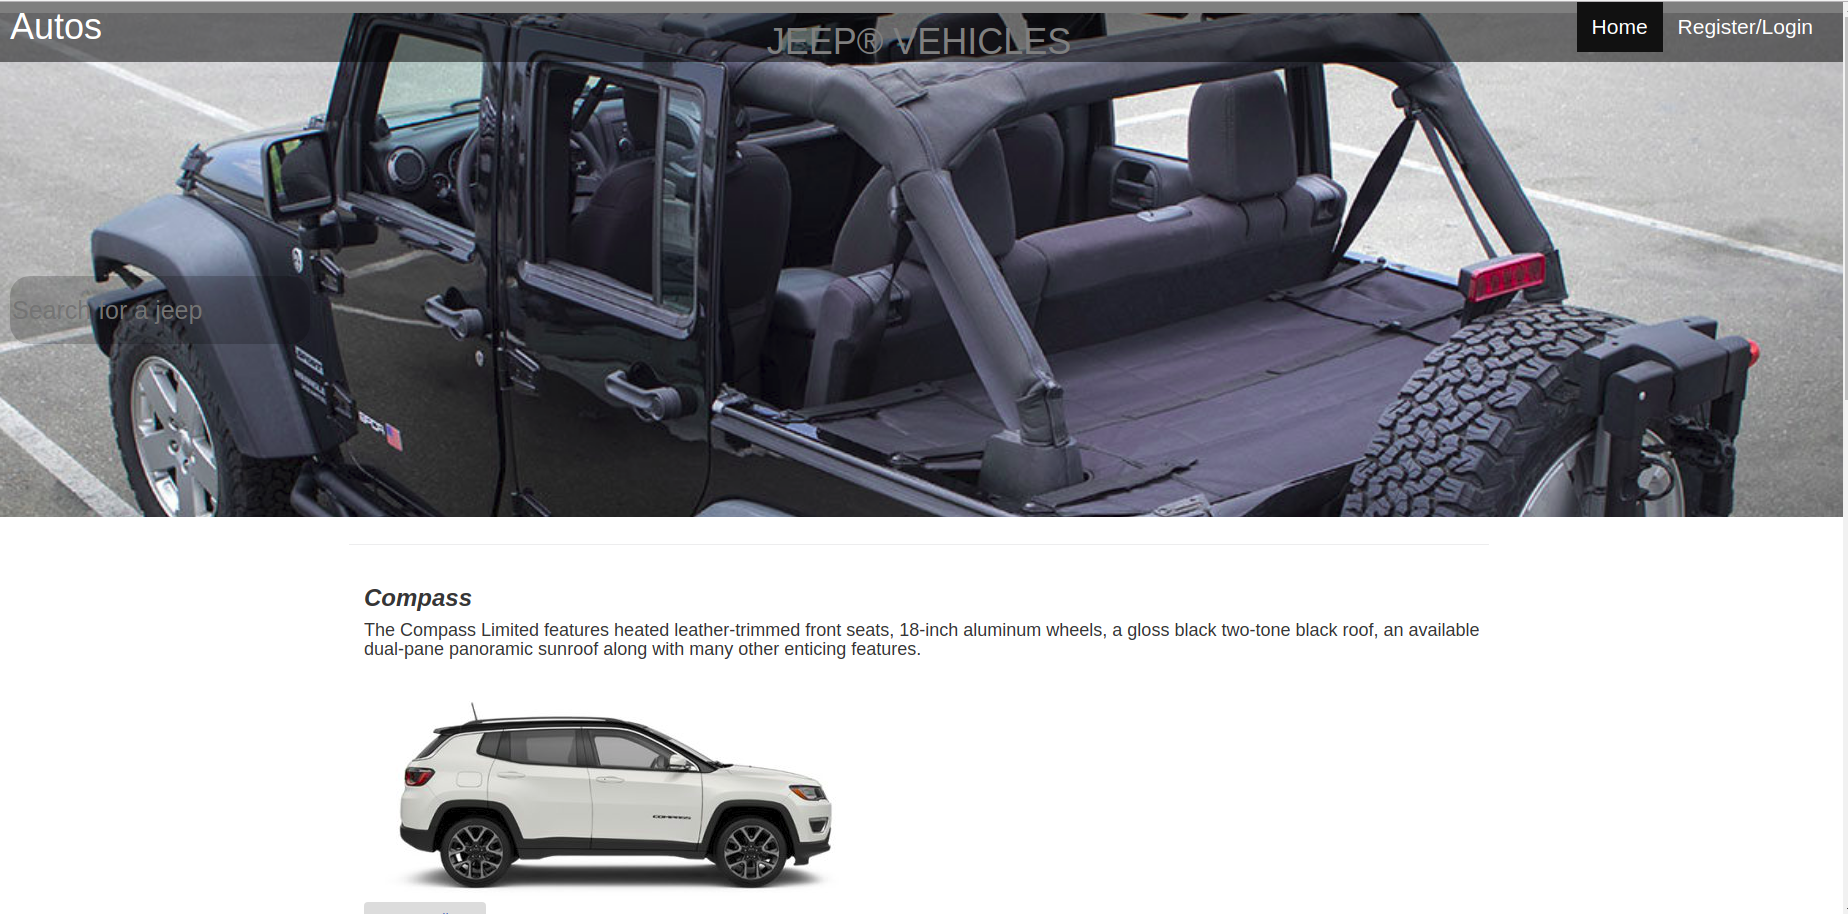
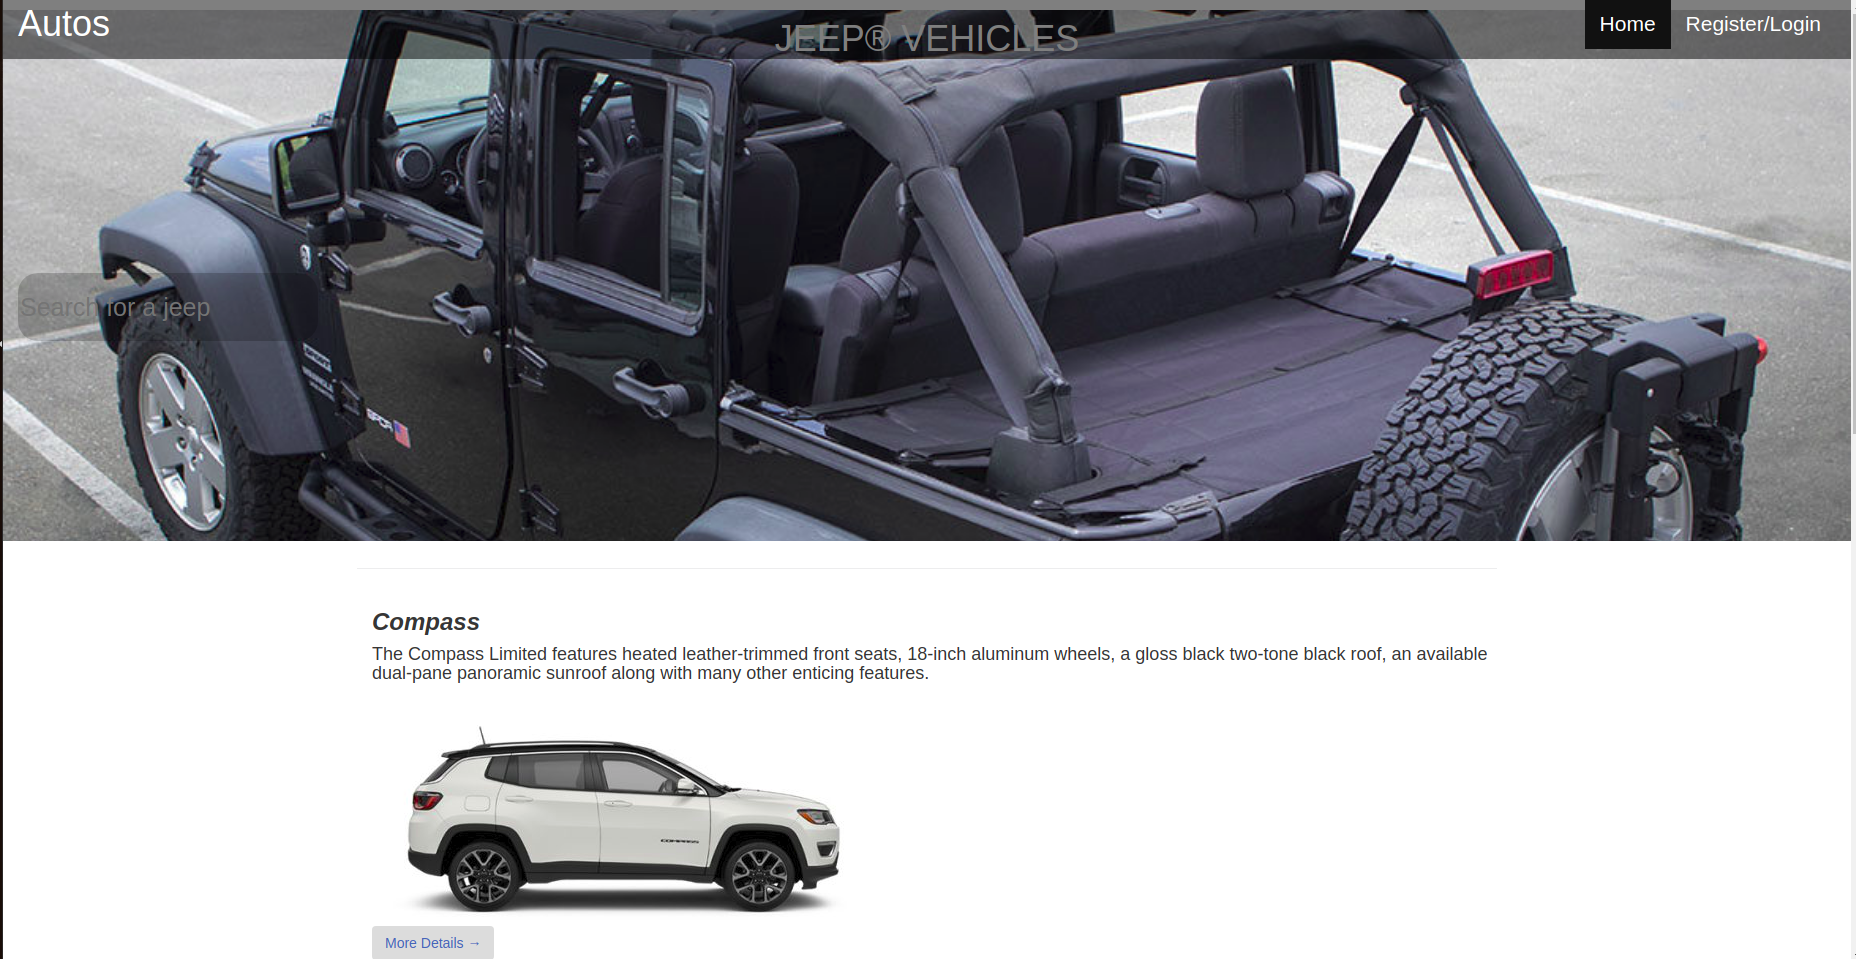
fix bug

diff --git a/index.html b/index.html
@@ -127,6 +127,7 @@
       </div>
     </div>
     </div>
+
     <!-- Portfolio Section -->
     <div id="portfolio">
       <div class="container">
@@ -134,83 +135,103 @@
           <h2>Projects</h2>
           <hr>
         </div>
-        <div class="categories">
-          <ul class="cat">
-            <li>
-              <ol class="type">
-                <li><a href="#" data-filter="*" class="active">All</a></li>
-                <li><a href="#" data-filter=".web">Javascript</a></li>
-                <li><a href="#" data-filter=".branding">Python - Django</a></li>
-              </ol>
-            </li>
-          </ul>
-          <div class="clearfix"></div>
+
+        <!-- Button trigger modal -->
+        <button type="button" class="btn btn-primary btn-lg" data-toggle="modal" data-target="#exampleModal">
+          <img src="img/projects/traft.png" class="img-responsive" alt="Traffic Tracker" height="250" width="250">
+          <h4>Traffic Tracker</h4>
+          </button>
+
+        <!-- Modal -->
+        <div class="modal fade" id="exampleModal" tabindex="-5" role="dialog" aria-labelledby="exampleModalLabel" aria-hidden="true" height="90px" width="650px">
+          <div class="modal-dialog" role="document">
+            <div class="modal-content">
+              <div class="modal-header"> <br>
+                <h5 class="modal-title" id="exampleModalLabel">Traffic Tracker</h5>
+                <button type="button" class="close" data-dismiss="modal" aria-label="Close">
+                    <span aria-hidden="true">&times;</span>
+                  </button>
+              </div> <br>
+              <div class="modal-body">
+                <img src="img/portfolio/tt-desc2.png" title="Technologies used: Ember, Firebase, GoogleMap, Twitter API" rel="prettyPhoto" height="490" width="540px">
+                <h3>This is a simple Web application that allows users to track traffic on specified routes.</h3>
+                <h2><a href="https://traffic-tracker-70c62.firebaseapp.com/">View Site</a></h2>
+              </div>
+              <div class=" modal-footer ">
+                <p>Technologies used: Ember, Firebase, GoogleMap, Twitter API</p>
+              </div>
+            </div>
+          </div>
         </div>
-        <div class="row">
-          <div class="portfolio-items">
-            <div class="col-sm-6 col-md-3 col-lg-3 web">
-              <div class="portfolio-item">
-                <div class="hover-bg">
-                  <h4>
-                      <a href="img/portfolio/01-large.jpg" title="Technologies used: Ember, Firebase, GoogleMap, Twitter API" rel="prettyPhoto">
-                      </h4>
-                  <div class="hover-text">
-                    <h4>Traffic Tracker</h4>
-                    <small>This is a simple Web application that allows users to track traffic on specified routes.</small> </div>
-                  <img src="img/projects/traft.png" class="img-responsive" alt="Traffic Tracker"> </a>
-                </div><a href="https://traffic-tracker-70c62.firebaseapp.com/">View Site</a>
+        <!-- Project 2 -->
+        <button type="button" class="btn btn-primary btn-lg" data-toggle="modal" data-target="#exampleModal1">
+          <img src="img/projects/camera.png" class="img-responsive" alt="Traffic Tracker" height="250" width="250">
+          <h4>Unsplash-Clone</h4>
+          </button>
+
+        <!-- Modal -->
+        <div class="modal fade" id="exampleModal1" tabindex="-5" role="dialog" aria-labelledby="exampleModalLabel" aria-hidden="true" height="90px" width="650px">
+          <div class="modal-dialog" role="document">
+            <div class="modal-content">
+              <div class="modal-header"> <br>
+                <h5 class="modal-title" id="exampleModalLabel">Unsplash-Clone</h5>
+                <button type="button" class="close" data-dismiss="modal" aria-label="Close">
+                    <span aria-hidden="true">&times;</span>
+                  </button>
+              </div> <br>
+              <div class="modal-body">
+                <img src="img/projects/unsplash.png" title="Technologies used: Ember, Firebase, GoogleMap, Twitter API" rel="prettyPhoto" height="490" width="540px">
+                <h3>This is a cloned web application for unsplash where users can upload photos and download photos from other users.</h3>
+                <h2><a href="https://unsplash-clone2.herokuapp.com/">View Site</a></h2>
+              </div>
+              <div class=" modal-footer ">
+                <p>Technologies used: Ember, Firebase, GoogleMap, Twitter API</p>
               </div>
             </div>
-            <div class="col-sm-6 col-md-3 col-lg-3 branding">
-              <div class="portfolio-item">
-                <div class="hover-bg">
-                  <a href="img/projects/unsplashclone.png" title="Technologies used: Python3.6, Django, Bootstrap, Postgresql Database, CSS, HTML" rel="prettyPhoto">
-                    <div class="hover-text">
-                      <h4>Unsplash-Clone</h4>
-                      <small>This is a cloned web application for unsplash where users can upload and download photos from other users.</small> </div>
-                    <img src="img/projects/camera.png" class="img-responsive" alt="Unsplash-Clone"> </a>
-                </div><a href="https://unsplash-clone2.herokuapp.com/">View Site</a>
+          </div>
+        </div>
+        <!-- Project 3 -->
+        <button type="button" class="btn btn-primary btn-lg" data-toggle="modal" data-target="#exampleModal2">
+          <img src="img/projects/jeep.png" class="img-responsive" alt="Traffic Tracker" height="250" width="250">
+          <h4>Autos</h4>
+          </button>
+
+        <!-- Modal -->
+        <div class="modal fade" id="exampleModal2" tabindex="-5" role="dialog" aria-labelledby="exampleModalLabel" aria-hidden="true" height="90px" width="650px">
+          <div class="modal-dialog" role="document">
+            <div class="modal-content">
+              <div class="modal-header"> <br>
+                <h5 class="modal-title" id="exampleModalLabel">Autos</h5>
+                <button type="button" class="close" data-dismiss="modal" aria-label="Close">
+                    <span aria-hidden="true">&times;</span>
+                  </button>
+              </div> <br>
+              <div class="modal-body">
+                <img src="img/projects/autos.png" title="Technologies used: Ember, Firebase, GoogleMap, Twitter API" rel="prettyPhoto" height="490" width="540px">
+                <h3>This application helps users to view more details about cars and be able to rate them.</h3>
+                <h2><a href="https://mweru-autos.herokuapp.com/">View Site</a></h2>
               </div>
-            </div>
-            <div class="col-sm-6 col-md-3 col-lg-3 web">
-              <div class="portfolio-item">
-                <div class="hover-bg">
-                  <a href="img/projects/githubuserlookup.png" title="Technologies used: HTML, CSS, Bootstrap, JavaScript, JQuery, GitHub API" rel="prettyPhoto">
-                    <div class="hover-text">
-                      <h4>Github User Lookup</h4>
-                      <small>A simple JavaScript application for searching users on Github using their usernames</small> </div>
-                    <img src="img/projects/github.png" class="img-responsive" alt="Github User Lookup"> </a>
-                </div>
-                <a href="https://mwerumuchai.github.io/mc5-ip1/">View Site</a>
-              </div>
-            </div>
-            <div class="col-sm-6 col-md-3 col-lg-3 branding">
-              <div class="portfolio-item">
-                <div class="hover-bg">
-                  <a href="img/projects/autos.png" title="Technologies used: Python3.6, Django, Bootstrap, Postgresql Database, CSS, HTML" rel="prettyPhoto">
-                    <div class="hover-text">
-                      <h4>Autos</h4>
-                      <small>This application helps users to view more details about cars and be able to rate them.</small> </div>
-                    <img src="img/projects/jeep.png" class="img-responsive" alt="Autos"> </a>
-                </div>
-                <a href="https://news-highlights.herokuapp.com/">View Site</a>
+              <div class=" modal-footer">
+                <p>Technologies used: Ember, Firebase, GoogleMap, Twitter API</p>
               </div>
             </div>
           </div>
         </div>
       </div>
     </div>
+
+
     <!-- Contact Section -->
     <div id="contact" class="text-center">
-      <div class="container-fluid">
-        <div class="row">
+      <div class="container-fluid ">
+        <div class="row ">
           <h2>Contact</h2>
-          <i class="fa fa-map-marker fa-2x"></i>
-          <p><i class="fa fa-envelope-o fa-2x"></i><a href="mailto:mwerumuchai@gmail.com" target="_top">mwerumuchai@gmail.com</a></p>
-          <div class="social">
+          <i class="fa fa-map-marker fa-2x "></i>
+          <p><i class="fa fa-envelope-o fa-2x "></i><a href="mailto:mwerumuchai@gmail.com" target="_top">mwerumuchai@gmail.com</a></p>
+          <div class="social ">
             <ul>
-              <li><a href="https://github.com/mwerumuchai"><i class="fa fa-github"></i></a></li>
-              <li><a href="https://www.linkedin.com/in/esther-mweru-913a4838/"><i class="fa fa-linkedin"></i></a></li>
+              <li><a href="https://github.com/mwerumuchai "><i class="fa fa-github"></i></a></li>
+              <li><a href="https://www.linkedin.com/in/esther-mweru-913a4838/ "><i class="fa fa-linkedin "></i></a></li>
             </ul>
           </div>
         </div>
@@ -223,17 +244,17 @@
         </div>
       </div>
     </div>
-    <script type="text/javascript" src="js/jquery.1.11.1.js"></script>
-    <script type="text/javascript" src="js/bootstrap.js"></script>
-    <script type="text/javascript" src="js/SmoothScroll.js"></script>
-    <script type="text/javascript" src="js/easypiechart.js"></script>
-    <script type="text/javascript" src="js/jquery.prettyPhoto.js"></script>
-    <script type="text/javascript" src="js/jquery.isotope.js"></script>
-    <script type="text/javascript" src="js/jquery.counterup.js"></script>
-    <script type="text/javascript" src="js/waypoints.js"></script>
-    <script type="text/javascript" src="js/jqBootstrapValidation.js"></script>
-    <script type="text/javascript" src="js/contact_me.js"></script>
-    <script type="text/javascript" src="js/main.js"></script>
+    <script type="text/javascript " src="js/jquery.1.11.1.js "></script>
+    <script type="text/javascript " src="js/bootstrap.js "></script>
+    <script type="text/javascript " src="js/SmoothScroll.js "></script>
+    <script type="text/javascript " src="js/easypiechart.js "></script>
+    <script type="text/javascript " src="js/jquery.prettyPhoto.js "></script>
+    <script type="text/javascript " src="js/jquery.isotope.js "></script>
+    <script type="text/javascript " src="js/jquery.counterup.js "></script>
+    <script type="text/javascript " src="js/waypoints.js "></script>
+    <script type="text/javascript " src="js/jqBootstrapValidation.js "></script>
+    <script type="text/javascript " src="js/contact_me.js "></script>
+    <script type="text/javascript " src="js/main.js "></script>
   </body>
 
 </html>

diff --git a/css/style.css b/css/style.css
@@ -232,7 +232,7 @@ ul.dropdown-menu {
   width: 100%;
   height: 100vh;
   margin-bottom: 7px;
-  margin-top: -61px;
+  margin-top: -73px;
   /*padding: 100px 0;*/
   text-align: center;
   color: #fff;
@@ -343,6 +343,34 @@ ul.dropdown-menu {
   padding: 80px 0;
   background: #f6f6f6;
 }
+
+#btnsize {
+  font-size: 14px;
+  width: 100px;
+  height: 100px;
+}
+
+.btn-primary {
+  color: #fff;
+  background-color: #fff;
+  /*padding: 21px 123px;*/
+  border-color: #fff;
+  border-radius: 0;
+}
+
+#portfolio-button {
+  display: block;
+  /*padding-right: 15px;
+  margin-top: 216px;*/
+}
+
+/*.btn-primary {
+  color: #fff;
+  background-color: #f6f6f6;
+  padding: 10px 20px;
+  border-color: #f6f6f6;
+  border-radius: 0;
+}*/
 
 .categories {
   padding-bottom: 30px;
@@ -493,6 +521,12 @@ ol.type li a:hover {
   /*padding: 100px 0 40px 0;*/
   color: #fff;
   background: #121d1f;
+}
+
+#contact {
+  /*padding: 100px 0 40px 0;*/
+  /*color: #121d1f;
+  background: #121d1f;*/
 }
 
 #contact h2 {

diff --git a/js/main.js b/js/main.js
@@ -78,6 +78,22 @@ $('#nav').affix({
 
     });
 
+    // inline type
+    // Example 1: From an element in DOM
+    $('.open-popup-link').magnificPopup({
+      type:'inline',
+      midClick: true // allow opening popup on middle mouse click. Always set it to true if you don't provide alternative source.
+    });
+
+// Example: 2 Dynamically created
+    // $('button').magnificPopup({
+    //   items: {
+    //     src: '<div class="white-popup">Dynamically created popup</div>',
+    //     type: 'inline'
+    //   },
+    //   closeBtnInside: true
+    // });
+
 
     // CounterUp
 	$(document).ready(function( $ ) {
